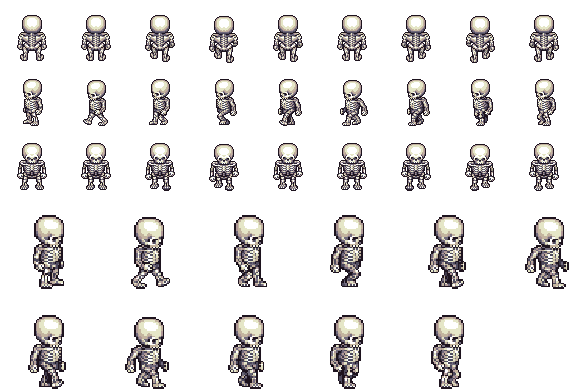
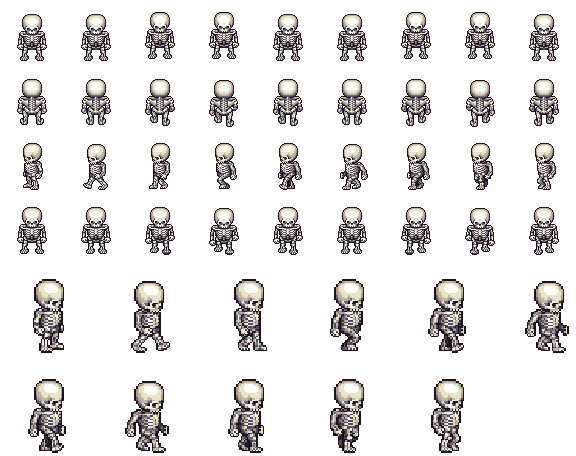
idle 애니메이션 추가 및 코드 수정

diff --git a/move_my_character_with_key.py b/move_my_character_with_key.py
@@ -40,8 +40,10 @@ def draw_character():
         imageNum = 2
     elif dirY > 0:
         imageNum = 3
-    else:
+    elif dirY < 0:
         imageNum = 1
+    else:
+        imageNum = 4
 
     if imageNum == 0:
         if frame < 4:
